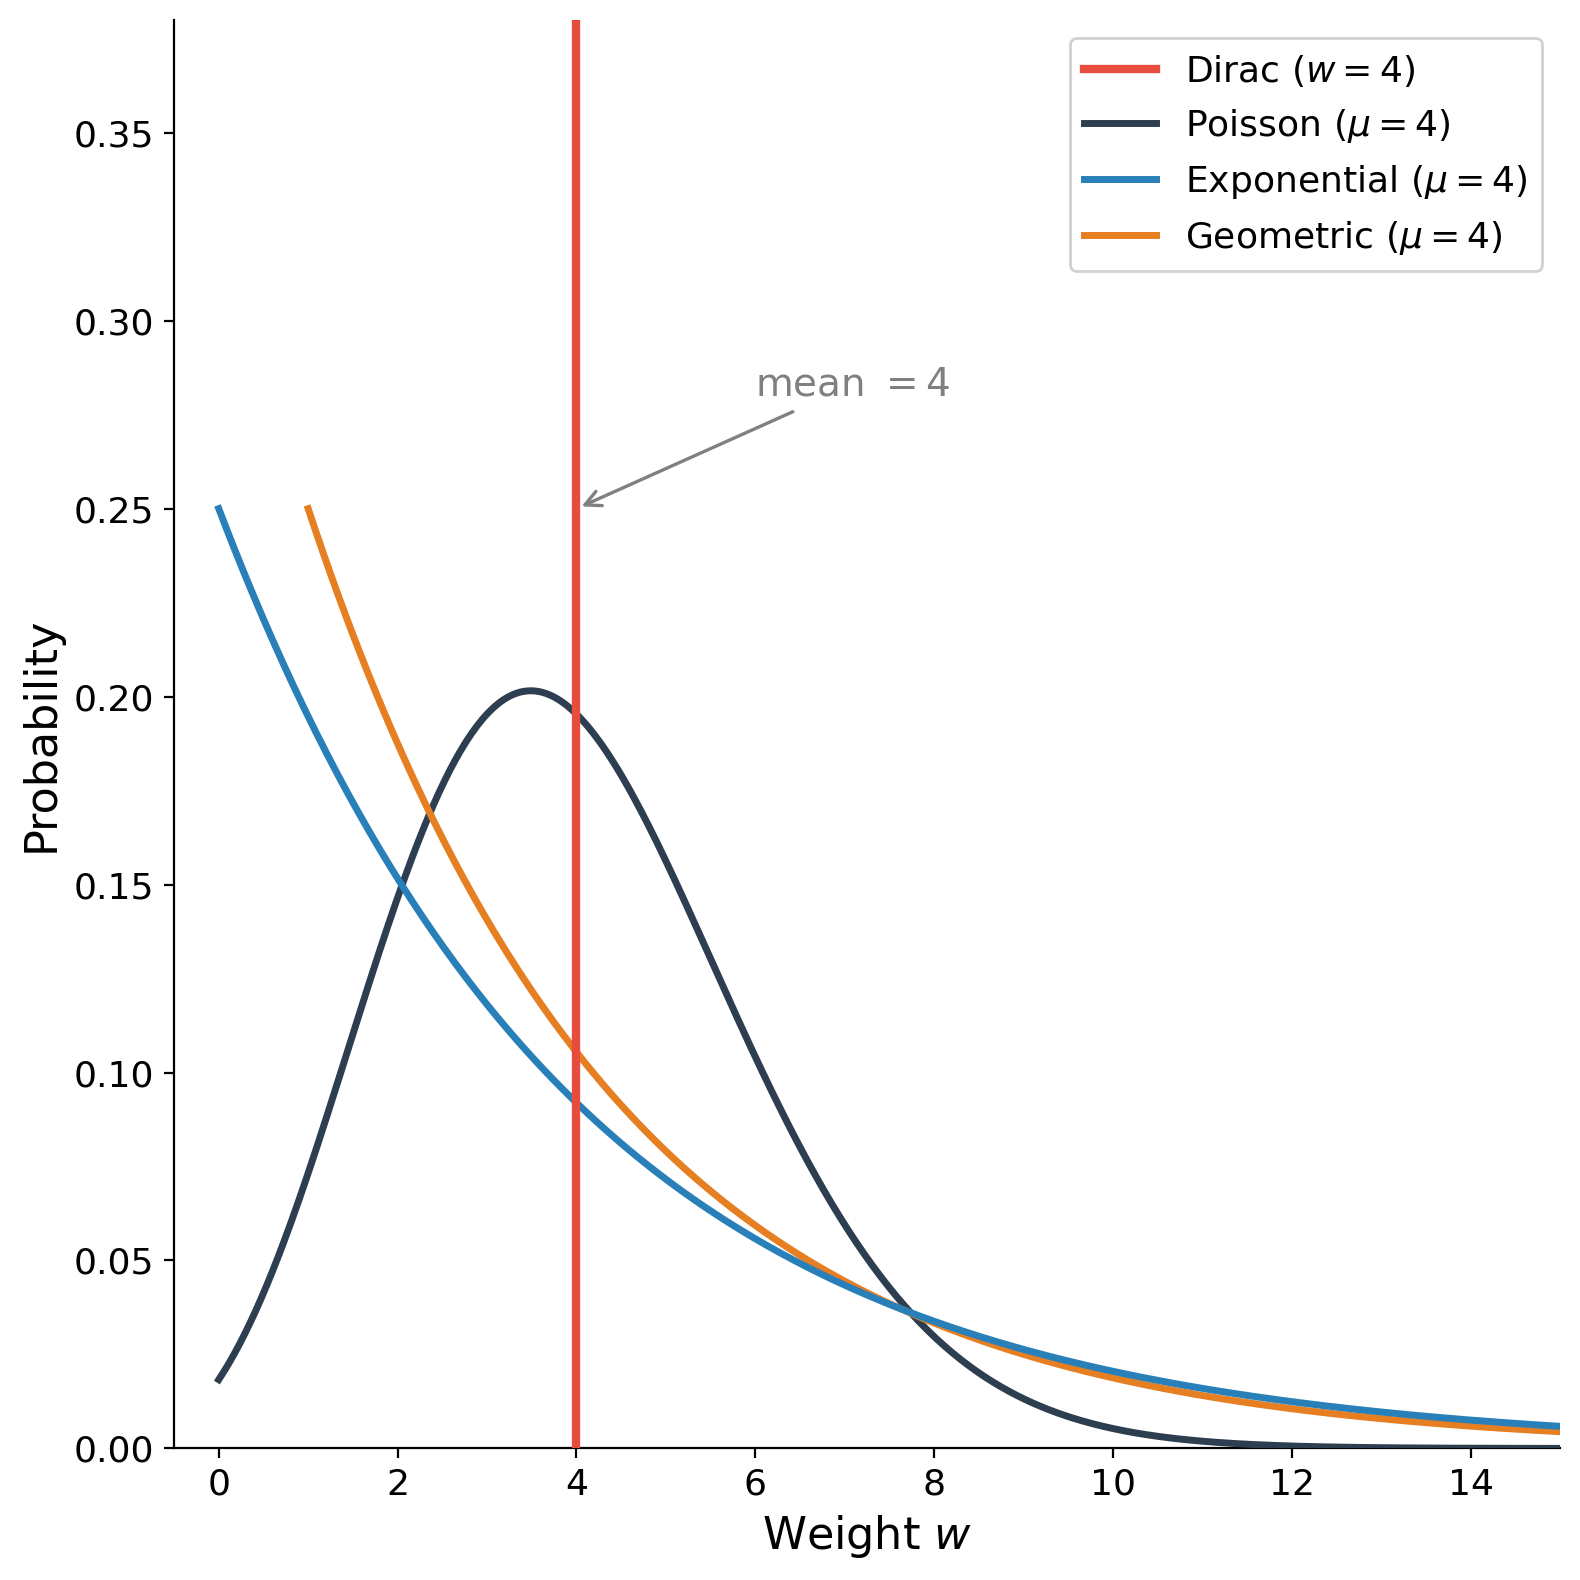
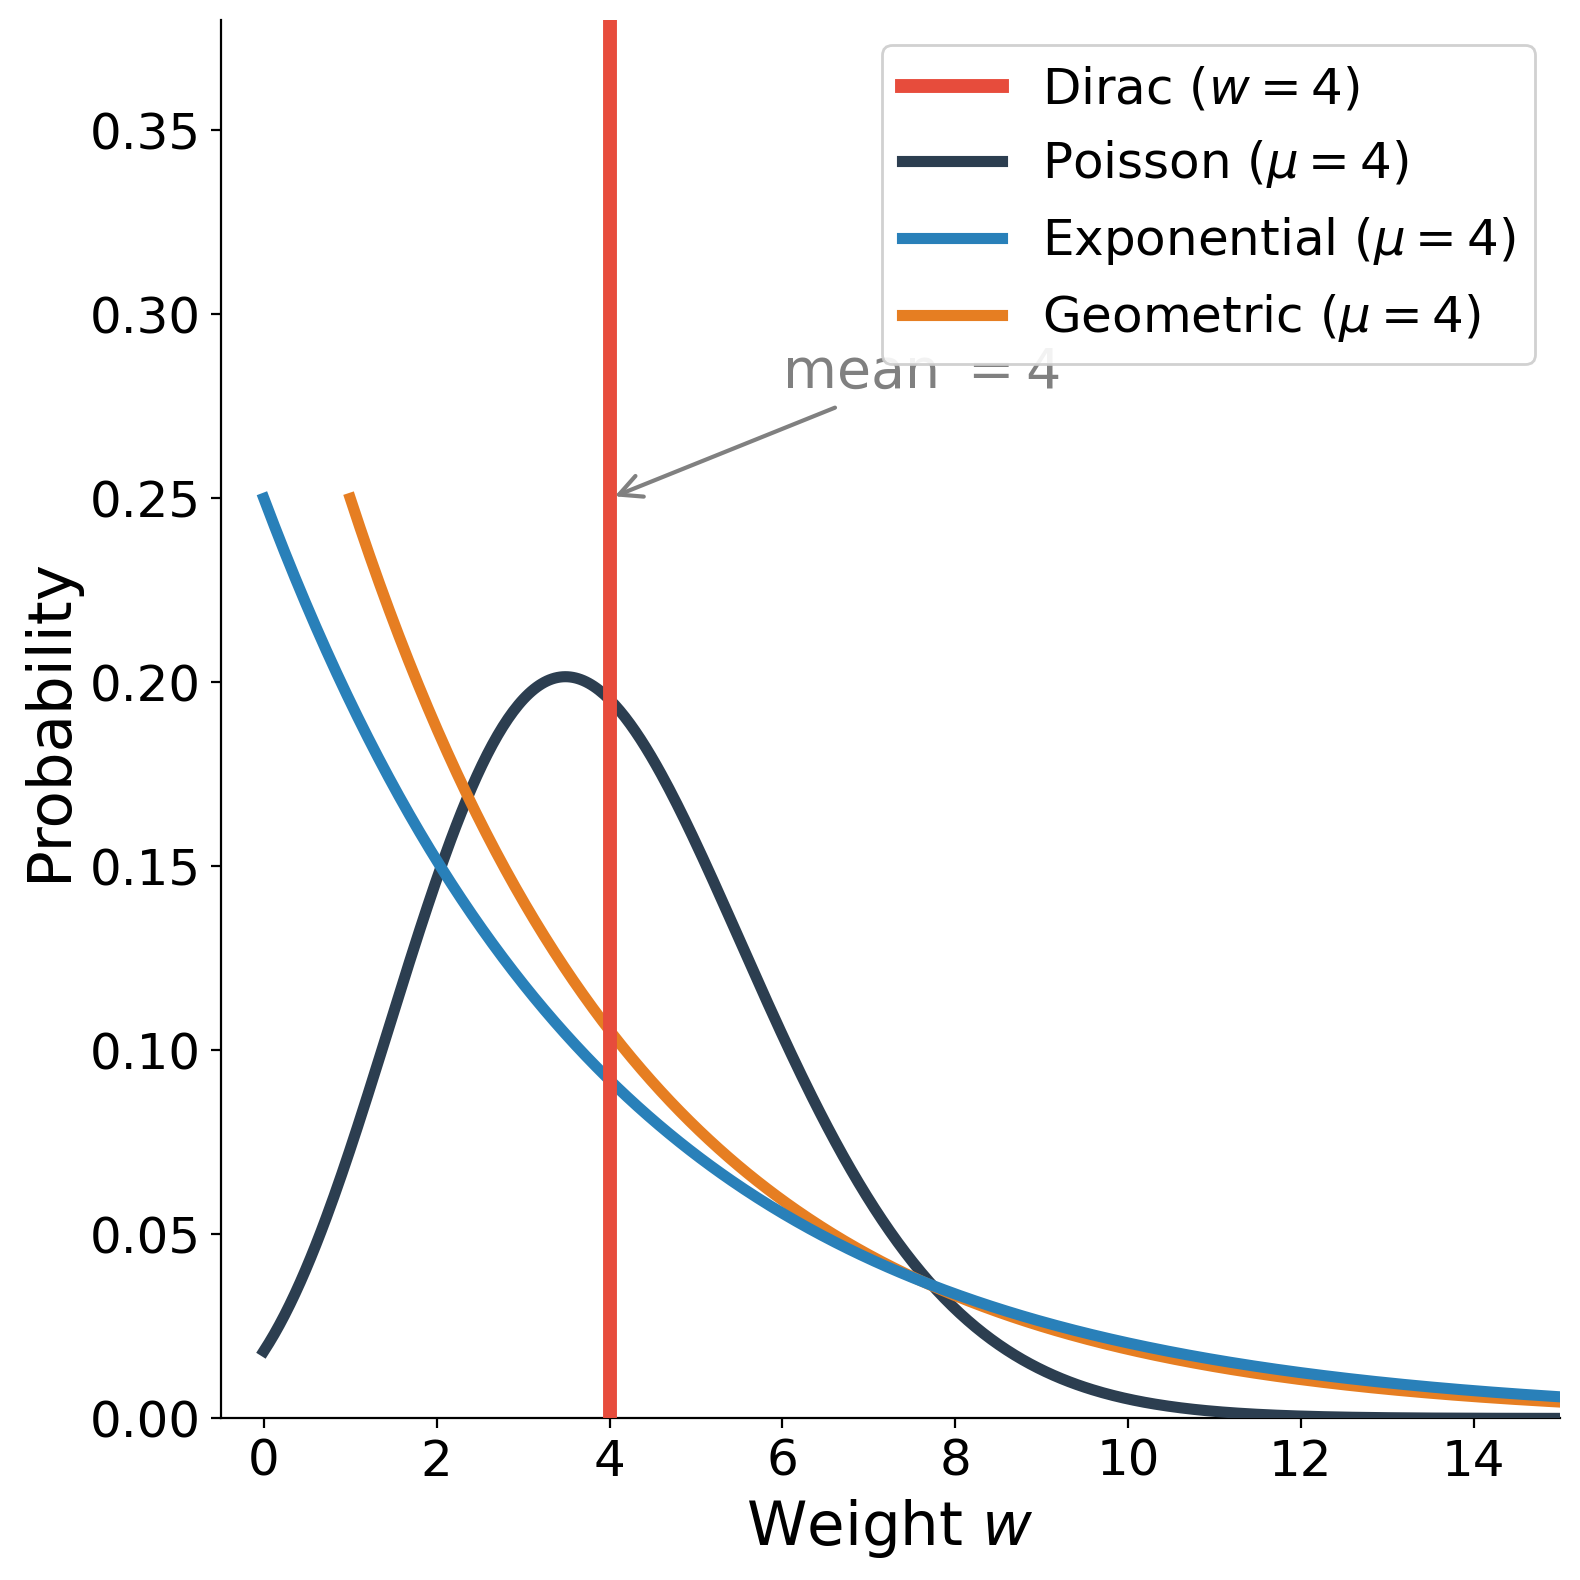
Increase font sizes and line widths in distribution plot

diff --git a/scripts/plot_distributions.py b/scripts/plot_distributions.py
@@ -11,23 +11,23 @@ fig, ax = plt.subplots(1, 1, figsize=(8, 8))
 from scipy.special import gamma as gammafn
 
 # Dirac delta at W
-ax.axvline(W, color="#e74c3c", linewidth=3, label=f"Dirac ($w = {W}$)", zorder=5)
+ax.axvline(W, color="#e74c3c", linewidth=5, label=f"Dirac ($w = {W}$)", zorder=5)
 
 # Poisson (mean = W) — supported on [0, ∞)
 x_poisson = np.linspace(0, 15, 500)
 pdf_poisson = np.exp(x_poisson * np.log(W) - W - np.log(gammafn(x_poisson + 1)))
-ax.plot(x_poisson, pdf_poisson, color="#2c3e50", linewidth=2.5, label=f"Poisson ($\\mu = {W}$)", zorder=3)
+ax.plot(x_poisson, pdf_poisson, color="#2c3e50", linewidth=4, label=f"Poisson ($\\mu = {W}$)", zorder=3)
 
 # Exponential (mean = W) — supported on [0, ∞)
 x_exp = np.linspace(0, 15, 500)
 pdf_exp = expon.pdf(x_exp, scale=W)
-ax.plot(x_exp, pdf_exp, color="#2980b9", linewidth=2.5, label=f"Exponential ($\\mu = {W}$)", zorder=4)
+ax.plot(x_exp, pdf_exp, color="#2980b9", linewidth=4, label=f"Exponential ($\\mu = {W}$)", zorder=4)
 
 # Geometric (mean = W) — supported on [1, ∞)
 p_geom = 1.0 / W
 x_geom = np.linspace(1, 15, 500)
 pdf_geom = p_geom * (1 - p_geom) ** (x_geom - 1)
-ax.plot(x_geom, pdf_geom, color="#e67e22", linewidth=2.5, label=f"Geometric ($\\mu = {W}$)", zorder=3)
+ax.plot(x_geom, pdf_geom, color="#e67e22", linewidth=4, label=f"Geometric ($\\mu = {W}$)", zorder=3)
 
 # Signed Bernoulli: w ∈ {-1, +1} with P(+1) = (W+1)/2, P(-1) = (1-W)/2...
 # Only works for |W| ≤ 1, so use W=0.5 variant or skip.
@@ -38,15 +38,15 @@ ax.plot(x_geom, pdf_geom, color="#e67e22", linewidth=2.5, label=f"Geometric ($\\
 
 ax.axvline(W, color="gray", linewidth=0.8, linestyle="--", alpha=0.5, zorder=1)
 ax.annotate(f"mean $= {W}$", xy=(W, 0.25),
-            xytext=(W + 2, 0.28), fontsize=14, color="gray",
-            arrowprops=dict(arrowstyle="->", color="gray", lw=1.2))
+            xytext=(W + 2, 0.28), fontsize=20, color="gray",
+            arrowprops=dict(arrowstyle="->", color="gray", lw=1.5))
 
-ax.set_xlabel("Weight $w$", fontsize=16)
-ax.set_ylabel("Probability", fontsize=16)
+ax.set_xlabel("Weight $w$", fontsize=22)
+ax.set_ylabel("Probability", fontsize=22)
 ax.set_xlim(-0.5, 15)
 ax.set_ylim(0, 0.38)
-ax.legend(fontsize=13, loc="upper right", framealpha=0.9)
-ax.tick_params(labelsize=13)
+ax.legend(fontsize=18, loc="upper right", framealpha=0.9)
+ax.tick_params(labelsize=18)
 ax.spines["top"].set_visible(False)
 ax.spines["right"].set_visible(False)
 